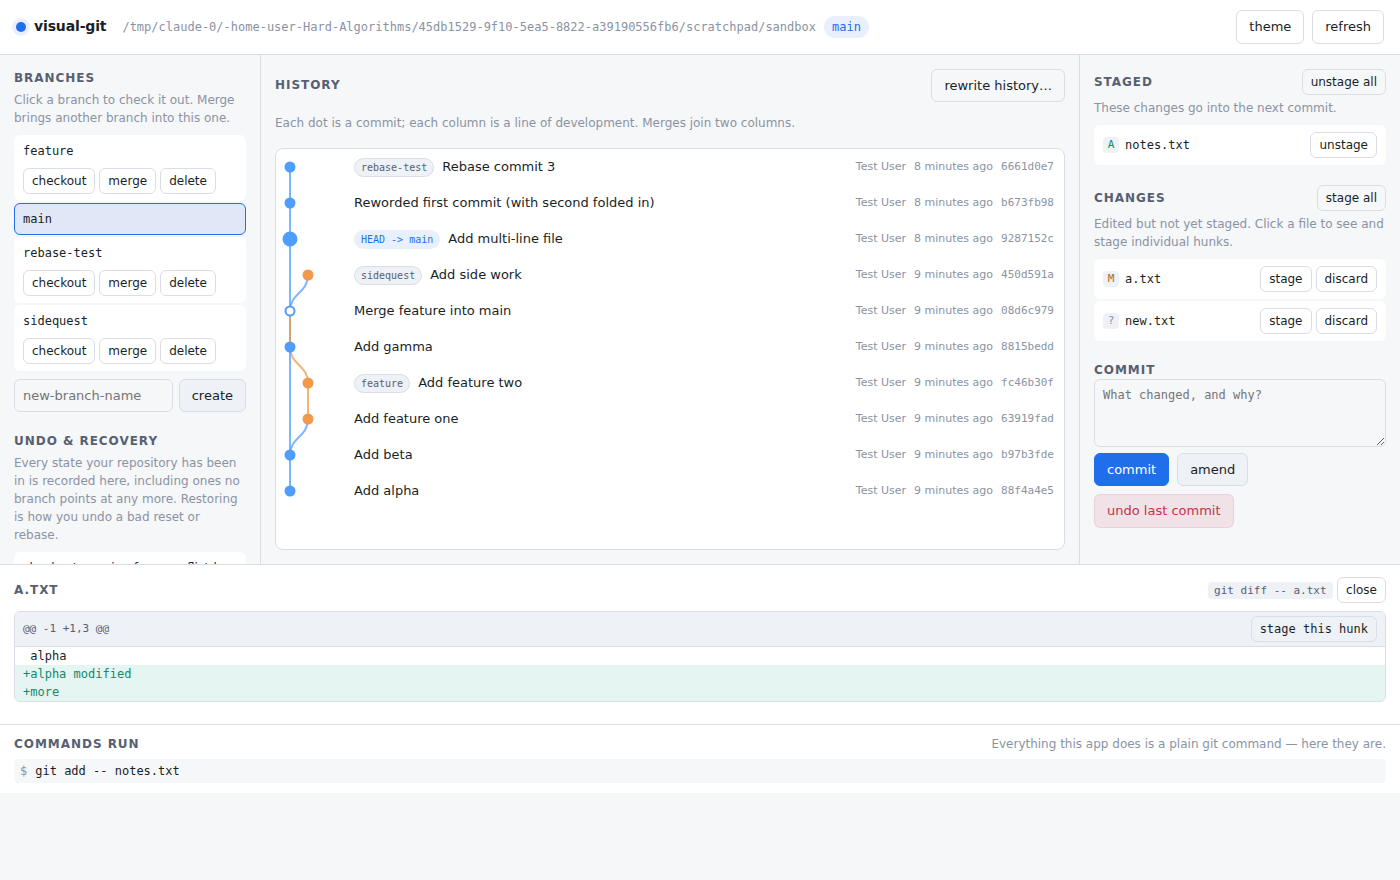
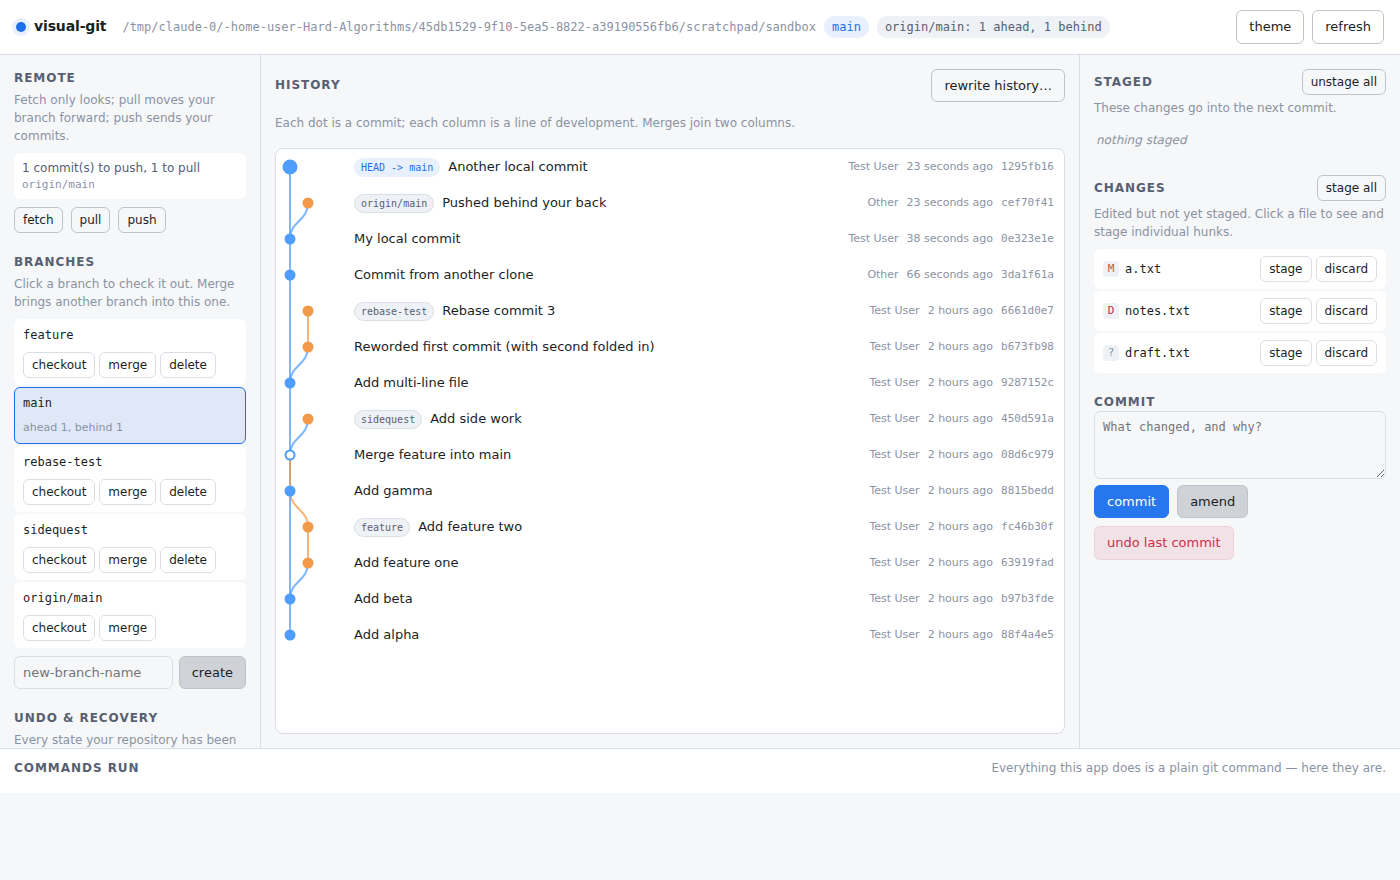
Add fetch, pull and push
Pull is --ff-only so a diverged branch fails loudly instead of gaining a
silent merge commit. Push offers --force-with-lease only after a rejection,
behind a confirmation. Remote commands carry a timeout so a stalled
connection cannot hold a request open.

Also fixes the ahead/behind counts: git writes them as "+2 -1", where the
signs are markers, so the behind count was being read as a negative number.

Claude-Session: https://claude.ai/code/session_015kpXbTkUExfAW1YHLKE2ce

diff --git a/static/app.js b/static/app.js
@@ -8,6 +8,7 @@ const dom = {
   trackChip: document.getElementById("track-chip"),
   alert: document.getElementById("alert"),
   branches: document.getElementById("branches"),
+  remoteState: document.getElementById("remote-state"),
   reflog: document.getElementById("reflog"),
   graph: document.getElementById("graph"),
   commitRows: document.getElementById("commit-rows"),
@@ -152,6 +153,66 @@ function renderHeader() {
       : `in sync with ${status.upstream}`;
   } else {
     dom.trackChip.textContent = "";
+  }
+}
+
+function renderRemote() {
+  const { status } = state;
+  dom.remoteState.replaceChildren();
+
+  if (!status.upstream) {
+    dom.remoteState.append(
+      el("div", { text: "No upstream yet — pushing will publish this branch to origin." })
+    );
+    return;
+  }
+
+  const parts = [];
+  if (status.ahead) parts.push(`${status.ahead} commit(s) to push`);
+  if (status.behind) parts.push(`${status.behind} to pull`);
+  dom.remoteState.append(
+    el("div", { text: parts.length ? parts.join(", ") : "up to date with the remote" }),
+    el("span", { class: "upstream", text: status.upstream })
+  );
+}
+
+function offerForcePush() {
+  dom.alert.append(
+    el("div", { class: "row" }, [
+      el("button", {
+        class: "danger",
+        text: "force push (--force-with-lease)",
+        onclick: async () => {
+          const confirmed = await confirmAction({
+            title: "Overwrite the remote branch?",
+            text:
+              "This replaces the commits on the remote with yours. --force-with-lease refuses if someone else pushed since your last fetch, but work of theirs that you have never fetched would still be lost.",
+            command: "git push --force-with-lease",
+          });
+          if (confirmed) pushChanges({ force: true });
+        },
+      }),
+    ])
+  );
+}
+
+async function pushChanges({ force = false } = {}) {
+  const { branch, upstream, detached } = state.status;
+  const payload = force ? { force: true, confirm: true } : {};
+  if (!upstream && branch && !detached) {
+    payload.setUpstream = true;
+    payload.remote = "origin";
+    payload.branch = branch;
+  }
+
+  const results = await run("push", payload);
+  if (!results || force) return;
+
+  // A rejected push means the remote has commits we do not; that is the one
+  // case where force-with-lease is the honest next step.
+  const failed = results.find((result) => result.code !== 0);
+  if (failed && /rejected|non-fast-forward|fetch first/i.test(failed.stderr)) {
+    offerForcePush();
   }
 }
 
@@ -592,6 +653,7 @@ async function refresh() {
     return;
   }
   renderHeader();
+  renderRemote();
   renderBranches();
   renderReflog();
   renderHistory();
@@ -636,6 +698,9 @@ document.getElementById("refresh").onclick = refresh;
 document.getElementById("theme-toggle").onclick = () => {
   applyTheme(document.documentElement.dataset.theme === "light" ? "dark" : "light");
 };
+document.getElementById("fetch").onclick = () => run("fetch");
+document.getElementById("pull").onclick = () => run("pull");
+document.getElementById("push").onclick = () => pushChanges();
 document.getElementById("stage-all").onclick = () => run("stageAll");
 document.getElementById("unstage-all").onclick = () => run("unstageAll");
 document.getElementById("diff-close").onclick = () => {

diff --git a/static/index.html b/static/index.html
@@ -28,6 +28,19 @@
     <main class="layout">
       <aside class="panel panel-left">
         <section>
+          <h2>Remote</h2>
+          <p class="hint">
+            Fetch only looks; pull moves your branch forward; push sends your commits.
+          </p>
+          <div id="remote-state" class="remote-state"></div>
+          <div class="row">
+            <button id="fetch" class="ghost small" data-command="git fetch --all --prune">fetch</button>
+            <button id="pull" class="ghost small" data-command="git pull --ff-only">pull</button>
+            <button id="push" class="ghost small" data-command="git push">push</button>
+          </div>
+        </section>
+
+        <section>
           <h2>Branches</h2>
           <p class="hint">Click a branch to check it out. Merge brings another branch into this one.</p>
           <div id="branches" class="list branches"></div>

diff --git a/static/style.css b/static/style.css
@@ -331,6 +331,22 @@ section {
   margin-top: 8px;
 }
 
+.remote-state {
+  font-size: 12px;
+  color: var(--text-dim);
+  background: var(--surface);
+  border-radius: 6px;
+  padding: 6px 8px;
+  margin-bottom: 8px;
+}
+
+.remote-state .upstream {
+  font-family: var(--mono);
+  font-size: 11px;
+  color: var(--text-faint);
+  display: block;
+}
+
 .reflog .row-item {
   flex-direction: column;
   align-items: flex-start;

diff --git a/server.py b/server.py
@@ -37,22 +37,34 @@ class BadRequest(Exception):
     pass
 
 
-def run_git(repo, args, stdin_text=None, extra_env=None):
+def run_git(repo, args, stdin_text=None, extra_env=None, timeout=None):
     """Run one git command. Arguments are always a list, never a shell string."""
     env = os.environ.copy()
+    # Without this, a command needing a password would block the request
+    # forever instead of failing with something the UI can show.
     env["GIT_TERMINAL_PROMPT"] = "0"
     if extra_env:
         env.update(extra_env)
-    proc = subprocess.run(
-        ["git", *args],
-        cwd=repo,
-        env=env,
-        input=stdin_text,
-        capture_output=True,
-        text=True,
-    )
+    command = "git " + " ".join(shlex.quote(a) for a in args)
+    try:
+        proc = subprocess.run(
+            ["git", *args],
+            cwd=repo,
+            env=env,
+            input=stdin_text,
+            capture_output=True,
+            text=True,
+            timeout=timeout,
+        )
+    except subprocess.TimeoutExpired:
+        return {
+            "command": command,
+            "stdout": "",
+            "stderr": f"no response after {timeout}s - check the network or your git credentials",
+            "code": -1,
+        }
     return {
-        "command": "git " + " ".join(shlex.quote(a) for a in args),
+        "command": command,
         "stdout": proc.stdout,
         "stderr": proc.stderr,
         "code": proc.returncode,
@@ -135,9 +147,10 @@ def read_status(repo):
         elif line.startswith("# branch.upstream "):
             state["upstream"] = line[len("# branch.upstream "):]
         elif line.startswith("# branch.ab "):
+            # Written as "+2 -1": the signs are markers, not negative numbers.
             ahead, behind = line[len("# branch.ab "):].split()
-            state["ahead"] = int(ahead)
-            state["behind"] = int(behind)
+            state["ahead"] = abs(int(ahead))
+            state["behind"] = abs(int(behind))
         elif line.startswith("1 ") or line.startswith("2 "):
             fields = line.split(" ", 8)
             xy = fields[1]
@@ -366,6 +379,30 @@ def action_abort(repo, payload):
     raise BadRequest("'which' must be 'rebase' or 'merge'")
 
 
+NETWORK_TIMEOUT = 120
+
+
+def action_fetch(repo, payload):
+    """Update remote-tracking branches. Touches nothing in the working tree."""
+    return [run_git(repo, ["fetch", "--all", "--prune"], timeout=NETWORK_TIMEOUT)]
+
+
+def action_pull(repo, payload):
+    """Fast-forward only: if the histories diverged this fails and changes
+    nothing, rather than quietly writing a merge commit."""
+    return [run_git(repo, ["pull", "--ff-only"], timeout=NETWORK_TIMEOUT)]
+
+
+def action_push(repo, payload):
+    args = ["push"]
+    if payload.get("force") is True:
+        require_confirmed(payload)
+        args.append("--force-with-lease")
+    if payload.get("setUpstream") is True:
+        args += ["--set-upstream", require_ref(payload, "remote"), require_ref(payload, "branch")]
+    return [run_git(repo, args, timeout=NETWORK_TIMEOUT)]
+
+
 REBASE_VERBS = {"pick", "reword", "squash", "fixup", "drop"}
 
 
@@ -449,6 +486,9 @@ ACTIONS = {
     "merge": action_merge,
     "abort": action_abort,
     "rebase": action_rebase,
+    "fetch": action_fetch,
+    "pull": action_pull,
+    "push": action_push,
 }
 
 

diff --git a/README.md b/README.md
@@ -40,9 +40,20 @@ column per line of development, so merges and divergence are visible. Branches
 list their ahead/behind counts against their upstream. Merge conflicts surface
 the conflicted files and an abort button.
 
+**Remotes.** Fetch (`--all --prune`), pull and push, with how far ahead or
+behind your branch is shown before you act. Pull is `--ff-only`: if the
+histories have diverged it fails and changes nothing rather than quietly
+writing a merge commit. Push offers `--force-with-lease` only after a push is
+rejected, behind a confirmation — it refuses if the remote moved since your
+last fetch.
+
+Remote commands run with `GIT_TERMINAL_PROMPT=0`, so they cannot stop to ask
+for a password: your credentials need to already work without prompting (an
+SSH key, or a credential helper). Otherwise the command fails with a visible
+error instead of hanging.
+
 ## What it does not do
 
-- No `push`, `pull` or `fetch`. Nothing here touches a remote.
 - Hunk-level staging, not line-level.
 - The rebase editor covers the run of ordinary commits below `HEAD`, up to
   eight of them. It stops at the first merge commit, because a plain
